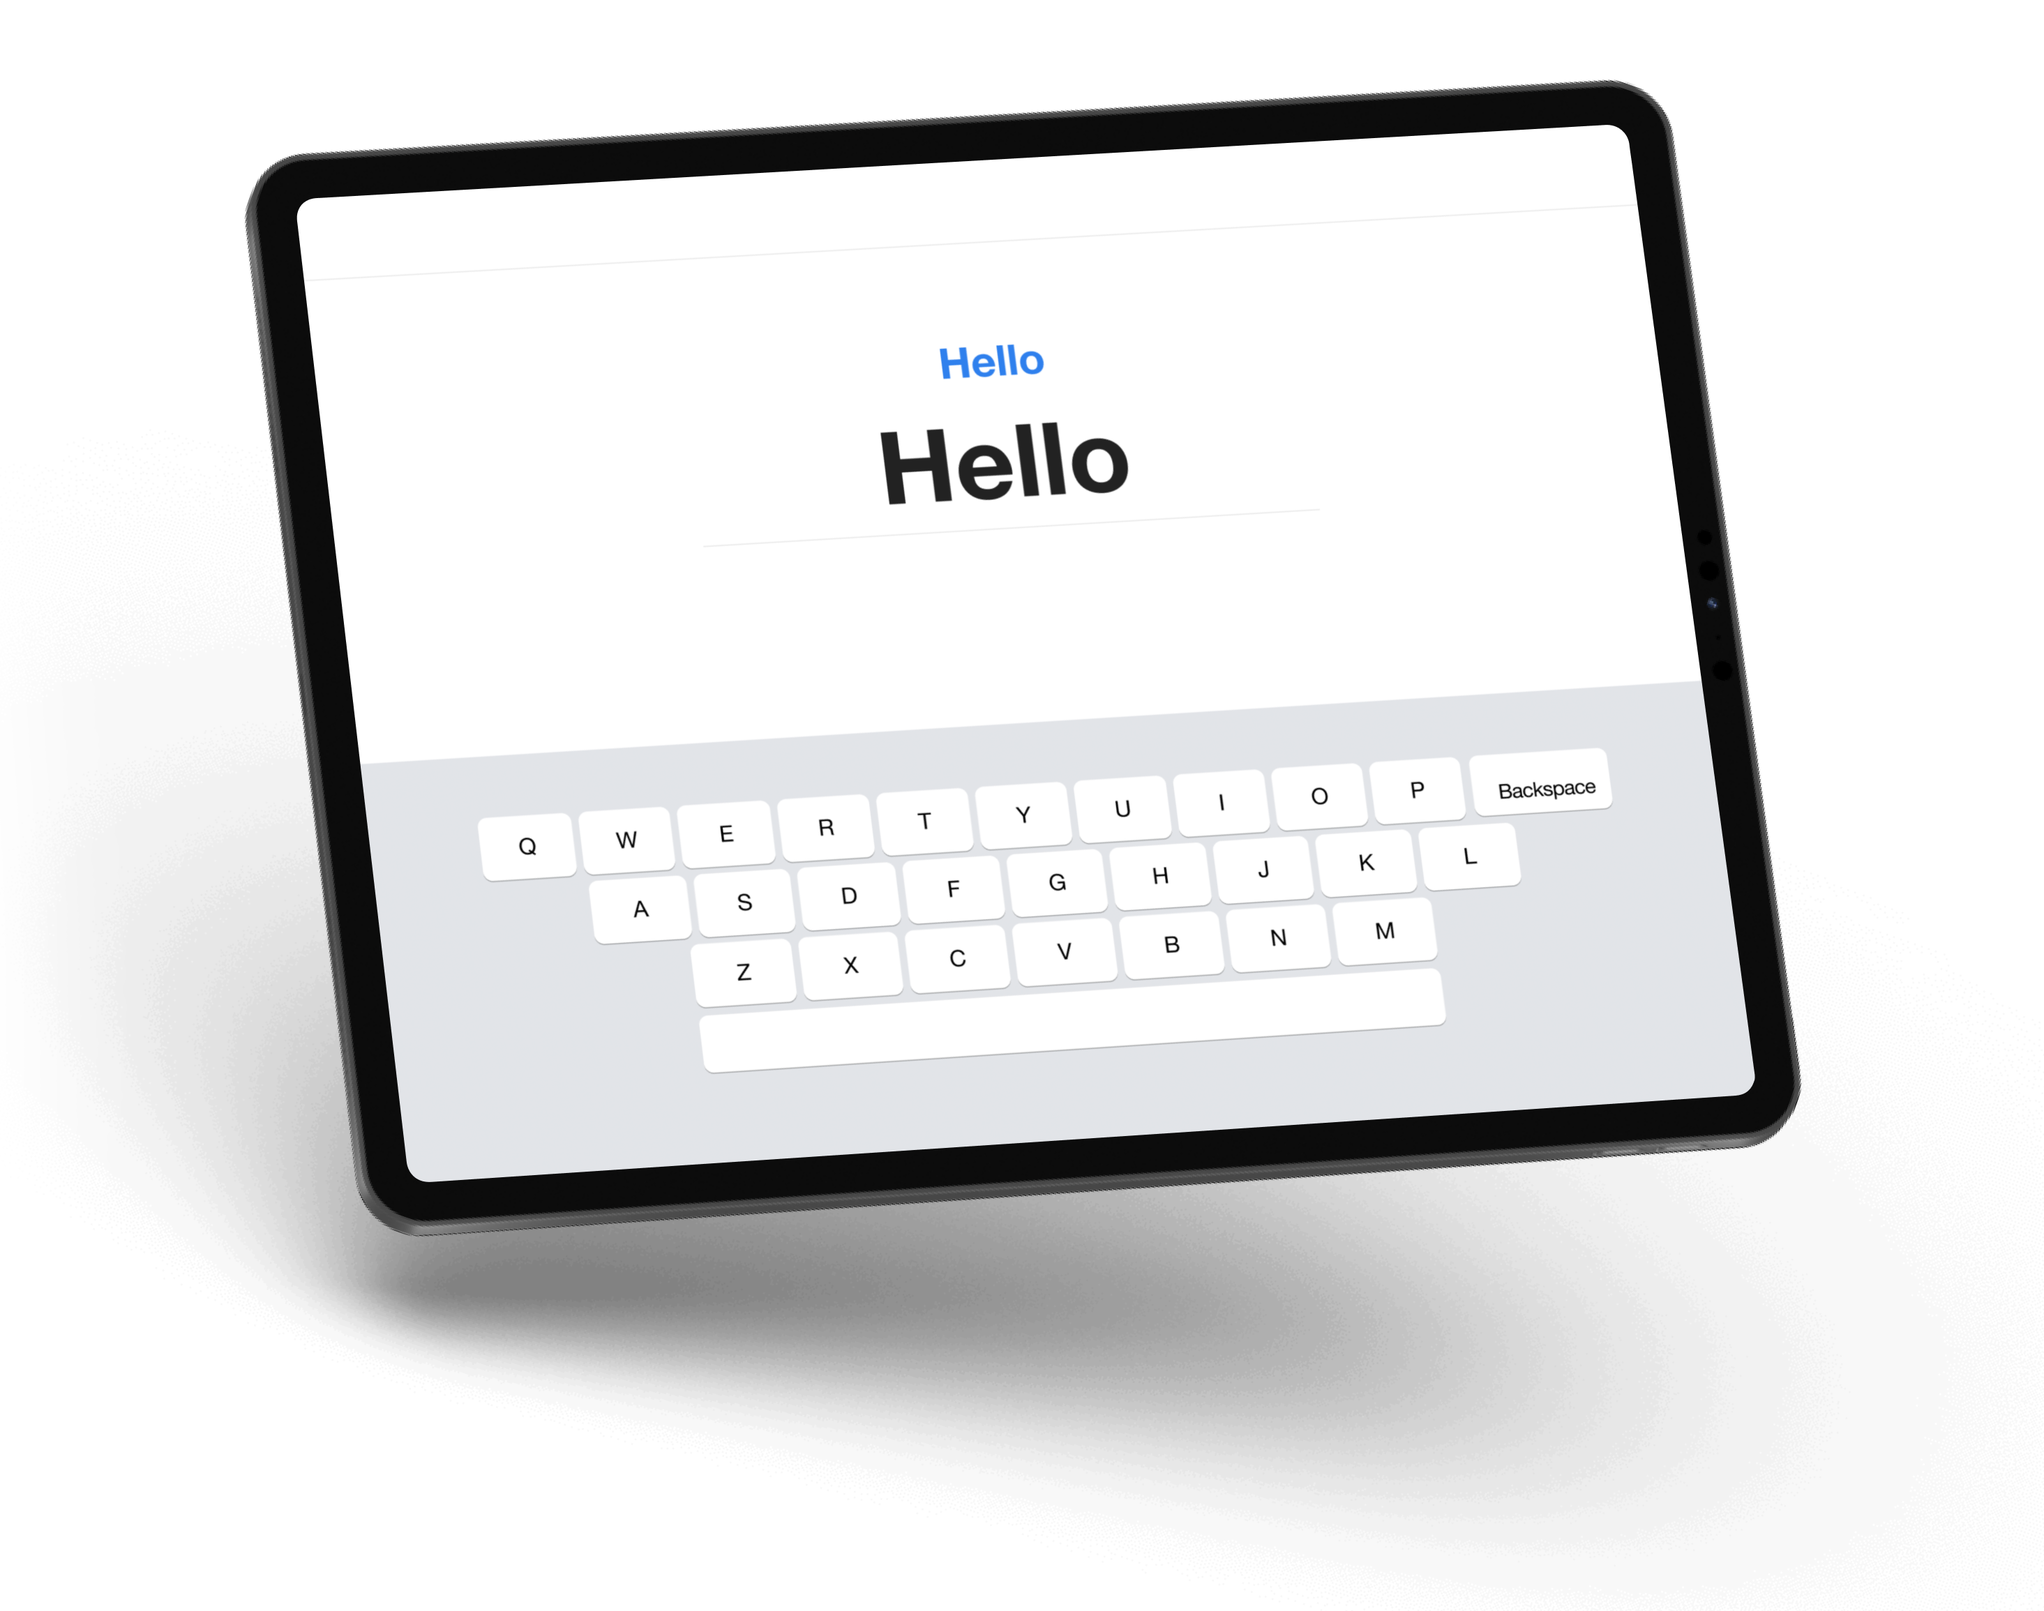
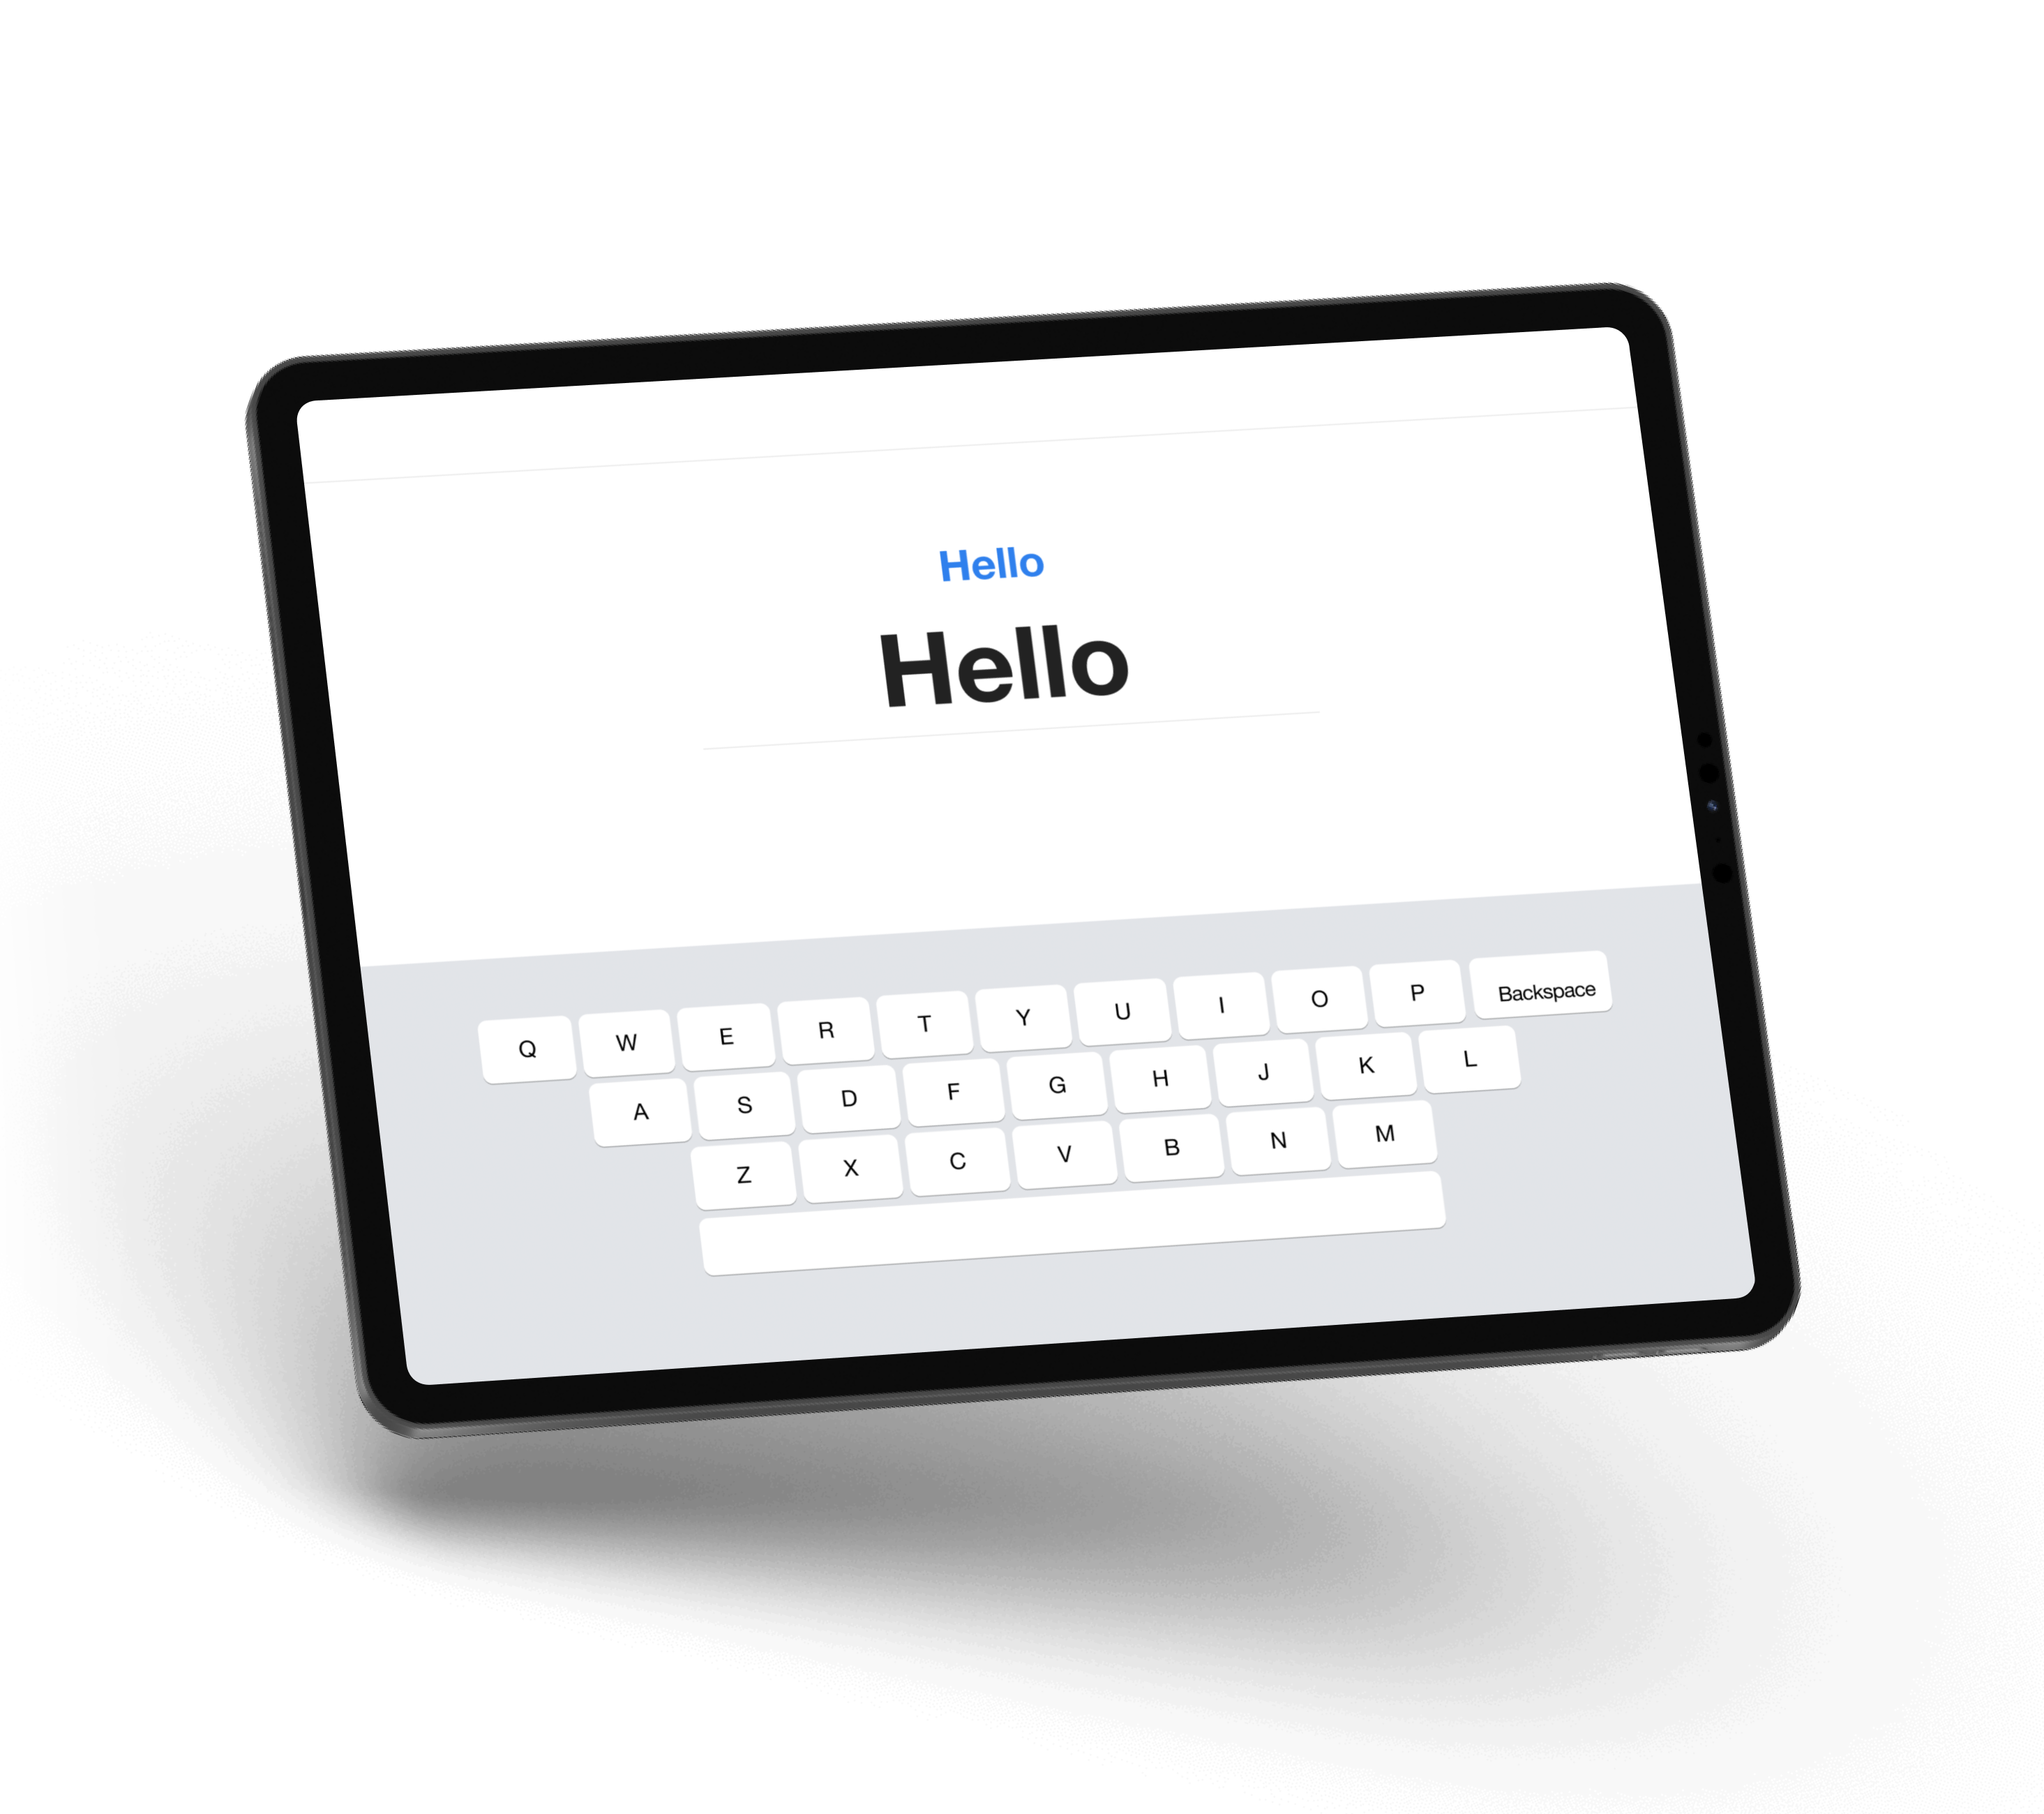
tweak sizing of ipad box in mobile layout

Changed region(s): [[0.0932, 0.0312, 0.9007, 0.8727]]

diff --git a/src/views/Home.vue b/src/views/Home.vue
@@ -129,7 +129,7 @@
     height: 32px;
   }
 
-  @media screen and (max-width: 800px) {
+  @media screen and (max-width: 960px) {
     .outer {
       flex-direction: column-reverse;
       height: initial;
@@ -142,7 +142,7 @@
     }
 
     .ipad-panel {
-      height: 250px;
+      height: 320px;
     }
 
     .button-row {
